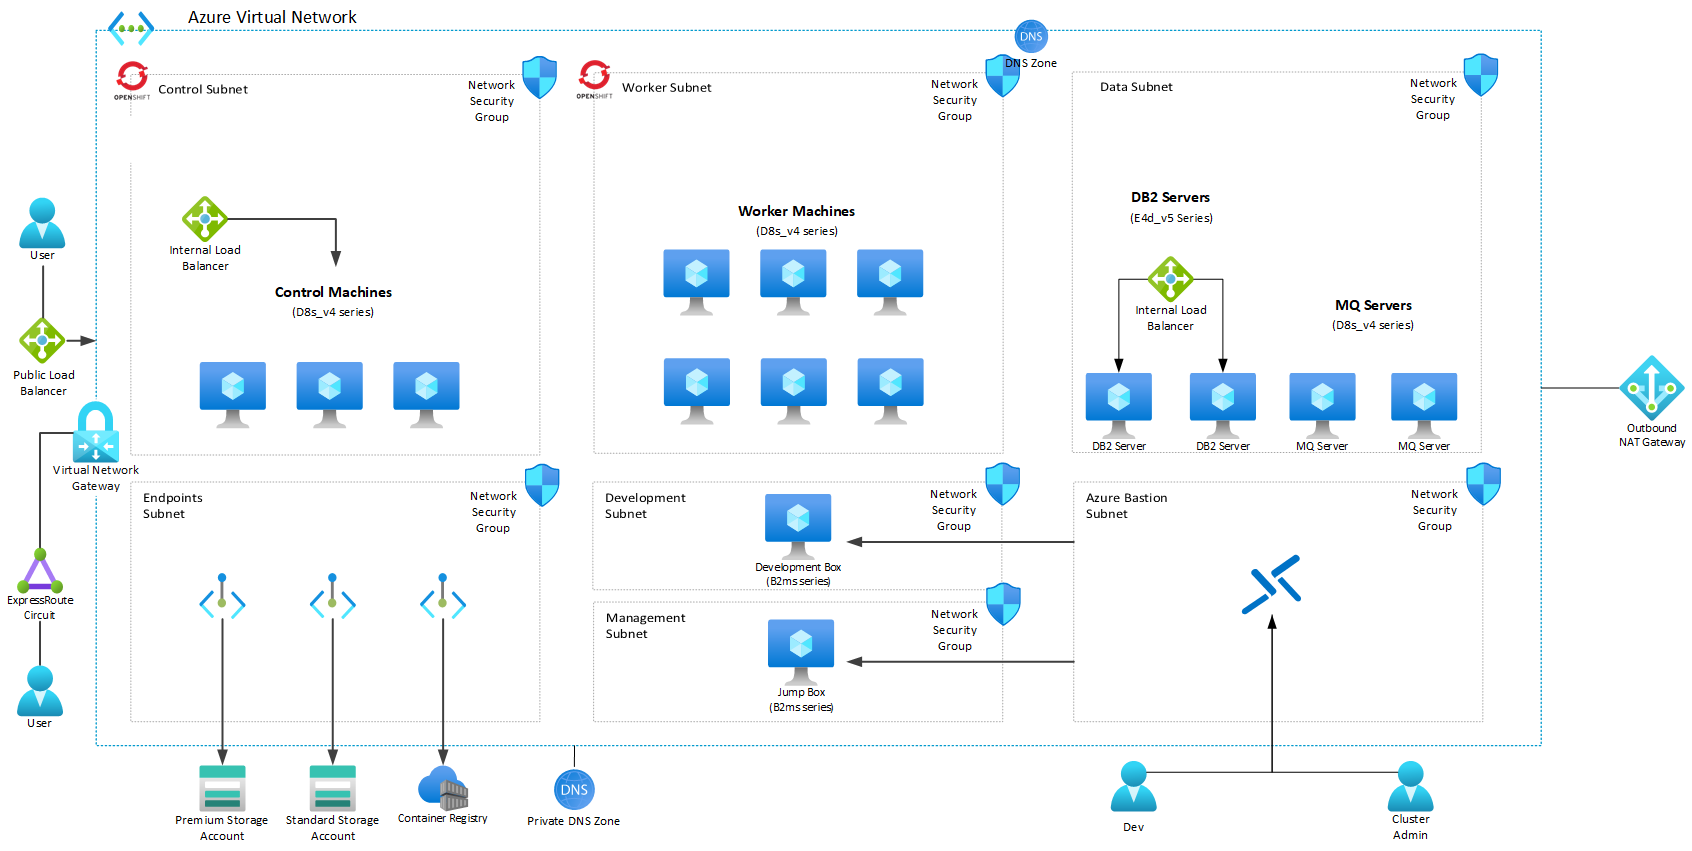
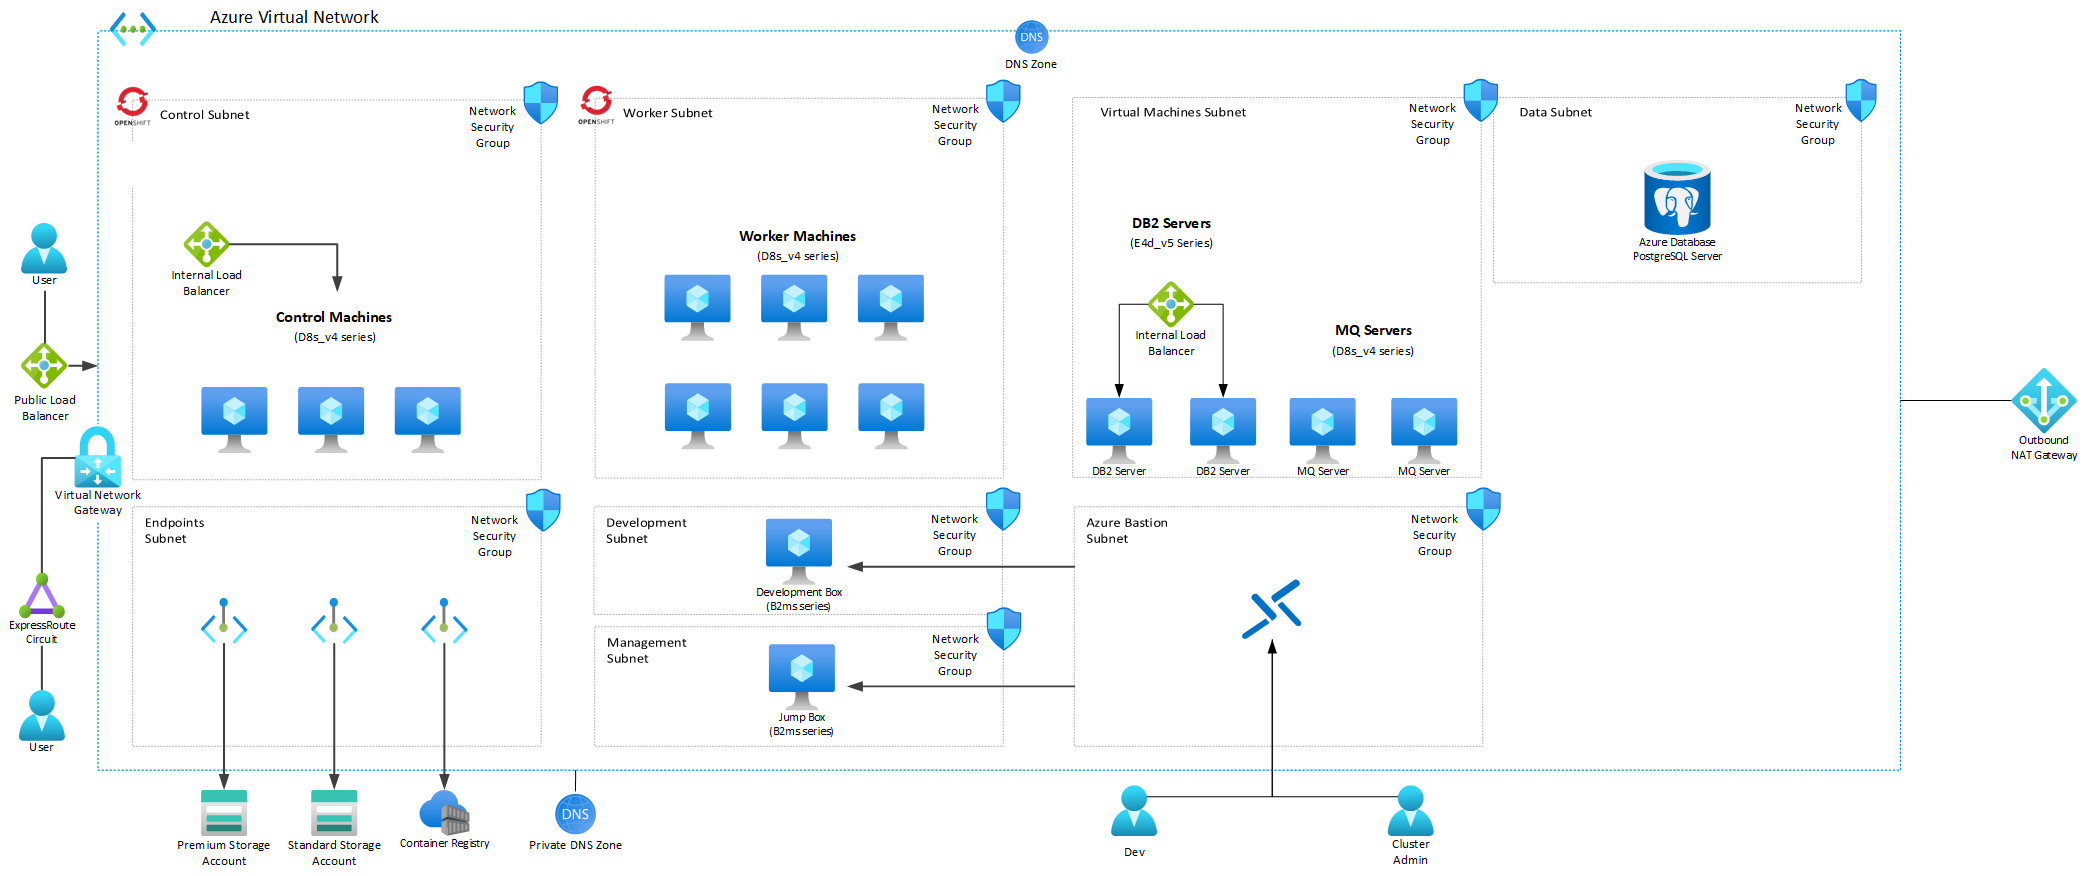
updated diagram with postgres, more readme updates

diff --git a/azure/README.md b/azure/README.md
@@ -51,11 +51,11 @@ az storage container generate-sas --account-name ominstaller --name installers -
 ```
 Note the full SAS token (string)
 
-Finally, update your parmaters file with the EXACT name of the archives for DB2 and/or MQ
+Finally, update your parameters file with the EXACT name of the archives for DB2 and/or MQ
 
 ## Deployment Parameters
 
-This repository contains a paramters file that contains most of the default values you can use to deploy your environment. You can adjust these as you see fit, however, there are a few you should be aware before you deploy:
+This repository contains a parameters file that contains most of the default values you can use to deploy your environment. You can adjust these as you see fit, however, there are a few you should be aware before you deploy:
 
 * aroVisibility: This is set to ```"Public"``` in the parameters file. If set to ```"Private"``` your WebUI and APIServer endpoints will ONLY be accessible from your JumpBox and/or any resources that can reach your virtual network. The current parameters file has this set to ```Public```.
 * whichOMS: Which version of OMS you want to deploy. This should correspond to the Operator image name. The parameters file is set to use the "Professional Edition." More information about which image to use for the version you want can be found here: https://www.ibm.com/docs/en/order-management-sw/10.0?topic=operator-installing-updating-order-management-software-online
@@ -94,6 +94,16 @@ az deployment group create --resource-group <your resource group name> --templat
 ## Post-Deployment
 
 Once this deployment completes, you should have a functional environment that will support deploying Sterling Order Management. However, this deployment is only a starting point. Please make sure you:
+
+### Connecting to your Azure VM(s) / Jumpbox for Administration
+
+This repository will deploy all associated resource* into a private virtual network which means resources (such as virtual machines, storage accounts, etc) will not be accessible from outside the virtual network. You can access these resources by using Azure Bastion to connect to a virtual machine and access your resources from there. This repository deploys a "jump box" RHEL virtual machine you can use for this purpose. You can also extend this network into other networks as you see fit.
+
+For help or getting started information with Azure Bastion, please reference this link: https://docs.microsoft.com/en-us/azure/bastion/bastion-connect-vm-rdp-windows
+
+**Note**: You can control your ARO "visibility" with the "aroVisibility" parameter (See [Deployment Parameters](#deployment-parameters) for more information)
+
+### Considerations
 
 * **Change any appropriate administrator passwords**: This installer uses the "admin password" parameter to set the administrator passwords for the following services:
  * VM Admin Accounts
